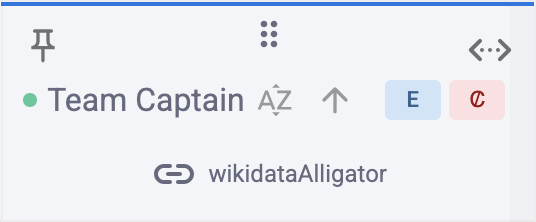
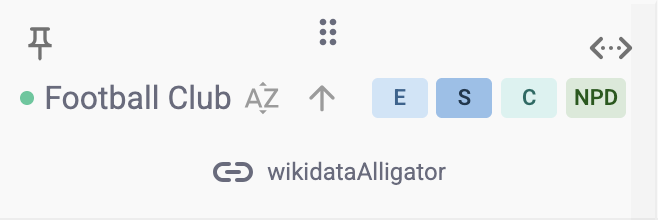
added access control, pipeline, graph visualization with compliance data sections

diff --git a/sidebars.js b/sidebars.js
@@ -25,6 +25,7 @@ const sidebars = {
         "user-manual/resources",
         "user-manual/running",
         "user-manual/starting-project",
+        "user-manual/access-control",
         {
           type: "category",
           label: "Exploring the Interface",
@@ -46,6 +47,7 @@ const sidebars = {
                 "user-manual/exploring-interface/table-view/introduction",
                 "user-manual/exploring-interface/table-view/search-navigation",
                 "user-manual/exploring-interface/table-view/filtering-visibility",
+                "user-manual/exploring-interface/table-view/pipeline",
                 "user-manual/exploring-interface/table-view/column-header",
               ],
             },

diff --git a/docs/user-manual/exploring-interface/graph-view/graph-area.md b/docs/user-manual/exploring-interface/graph-view/graph-area.md
@@ -3,21 +3,42 @@ sidebar_position: 2
 ---
 
 # Graph Area
-At the top left of the Graph Area, a legend indicates the meaning of the node colors:
-<ul style={{ listStyle: 'none', paddingLeft: '10px' }}>
+## Legend
+The Graph Area supports two visualization modes, toggled via the buttons in the top right corner:
+- Standard View: The default mode, where node colors are determined by their basic semantic role.
+  <ul style={{ listStyle: 'none', paddingLeft: '10px', marginTop: '8px' }}>
+    <li style={{ marginBottom: '10px' }}>
+      <span style={{ backgroundColor: '#2ecc71', width: '10px', height: '10px', borderRadius: '50%', display: 'inline-block', marginRight: '10px', verticalAlign: 'middle' }}></span>
+      <b>Subject</b>: Main entities or key columns in the dataset.
+    </li>
+    <li style={{ marginBottom: '10px' }}>
+      <span style={{ backgroundColor: '#3498db', width: '10px', height: '10px', borderRadius: '50%', display: 'inline-block', marginRight: '10px', verticalAlign: 'middle' }}></span>
+      <b>Entity</b>: Related objects or semantic concepts connected to Subjects.
+    </li>
+    <li style={{ marginBottom: '10px' }}>
+      <span style={{ backgroundColor: '#e67e22', width: '10px', height: '10px', borderRadius: '50%', display: 'inline-block', marginRight: '10px', verticalAlign: 'middle' }}></span>
+      <b>Literal</b>: Concrete values from the table (like strings, numbers, or dates).
+    </li>
+  </ul>
+- Compliance View: Activated by clicking the `Show compliance` button. n this mode, node colors are determined by their data privacy classification.
+    <ul style={{ listStyle: 'none', paddingLeft: '10px', marginTop: '8px' }}>
+    <li style={{ marginBottom: '10px' }}>
+      <span style={{ backgroundColor: '#dc143c', width: '10px', height: '10px', borderRadius: '50%', display: 'inline-block', marginRight: '10px', verticalAlign: 'middle' }}></span>
+      <b>Personal Data</b>: Directly identifies an individual (e.g., name, email)..
+    </li>
+    <li style={{ marginBottom: '10px' }}>
+      <span style={{ backgroundColor: '#ffa500', width: '10px', height: '10px', borderRadius: '50%', display: 'inline-block', marginRight: '10px', verticalAlign: 'middle' }}></span>
+      <b>Quasi-Identifiers</b>: Could indirectly identify a person when combined with other data.
+    </li>
+    <li style={{ marginBottom: '10px' }}>
+      <span style={{ backgroundColor: '#228b22', width: '10px', height: '10px', borderRadius: '50%', display: 'inline-block', marginRight: '10px', verticalAlign: 'middle' }}></span>
+      <b>Non-Personal Data</b>: Organizational or contextual information.
+    </li>
   <li style={{ marginBottom: '10px' }}>
-    <span style={{ backgroundColor: '#2ecc71', width: '10px', height: '10px', borderRadius: '50%', display: 'inline-block', marginRight: '10px', verticalAlign: 'middle' }}></span>
-    <b>Subject</b>: Main entities or key columns in the dataset.
-  </li>
-  <li style={{ marginBottom: '10px' }}>
-    <span style={{ backgroundColor: '#3498db', width: '10px', height: '10px', borderRadius: '50%', display: 'inline-block', marginRight: '10px', verticalAlign: 'middle' }}></span>
-    <b>Entity</b>: Related objects or semantic concepts connected to Subjects.
-  </li>
-  <li style={{ marginBottom: '10px' }}>
-    <span style={{ backgroundColor: '#e67e22', width: '10px', height: '10px', borderRadius: '50%', display: 'inline-block', marginRight: '10px', verticalAlign: 'middle' }}></span>
-    <b>Literal</b>: Concrete values from the table (like strings, numbers, or dates).
-  </li>
-</ul>
+      <span style={{ backgroundColor: '#1e90ff', width: '10px', height: '10px', borderRadius: '50%', display: 'inline-block', marginRight: '10px', verticalAlign: 'middle' }}></span>
+      <b>Anonymous Data</b>: Fully anonymized data.
+    </li>
+  </ul>
 
 <div style={{textAlign: 'center'}}>
   <img 
@@ -63,3 +84,6 @@ This view allows you to:
 
 The Column Values table acts as a bridge between the graph representation and the concrete data stored in the dataset,
 supporting both semantic analysis and data quality inspection.
+
+This section can be collapsed or expanded using the `+` and `-` buttons in the top right of the panel. When collapsed,
+it allows for more space to view the graph.

diff --git a/docs/user-manual/exploring-interface/table-view/pipeline.md b/docs/user-manual/exploring-interface/table-view/pipeline.md
@@ -1,0 +1,49 @@
+---
+sidebar_position: 4
+---
+
+# Pipeline Control
+The Pipeline provides a comprehensive overview of the enrichment workflow
+applied to the table, tracking all the logs done by the user, such as get table, modifications, reconciliations,
+extensions, cell entity link propagation, and save table. It automatically reconstructs the entire operational history—or
+"timeline"—by ordering actions chronologically based on their timestamps.
+
+Simply open the Pipeline control panel, located in the top-right of the SubToolbar, to visualize the enrichment operations 
+in two distinct ways:
+- **Sequential List**: A chronological log of all performed actions.
+- **Tree View (DAG)**: A Directed Acyclic Graph (DAG) representation that maps the dependencies between operations.
+
+This visualization allows you to understand how different operations relate to one another—for example, how an extension
+might depend on a previous reconciliation.
+
+## Operational Control and Dependencies
+The system manages dependencies to maintain data consistency offering advanced management capabilities that go beyond
+simple undo/redo actions:
+- **Safe Deletion**: When no dependencies are violated.
+- **Cascade Delete**: When deleting an operation that others depend on, all the dependent operations as well will be removed as well.
+
+| Operation      | When can I delete an operation?                                                                                                             |
+|----------------|---------------------------------------------------------------------------------------------------------------------------------------------|
+| Reconciliation | Only if the result is not used by any Extension operation, or when Reconciliations done in sequence on the same column.                     |
+| Extension      | Only if no Modification or Reconciliation operation is done using the column created by the operation or as context of another Extension    |
+| Modification   | Only if the result or the newly created column is not used by any Reconciliation operation or used as support context from other operations |
+
+:::info NOTE
+Modification is considered a "destructive" operation because it directly edits cell values. Reversing them may require careful handling of the operation history: by ignoring 
+the changes or store previous value of the column in the log (heavier).
+:::
+
+| Dependencies (To/From) | Reconciliation | Extension | Modification | Annotation Propagation |
+|------------------------|----------------|-----------|--------------|------------------------|
+| Reconciliation         | ❌             | ✅¹       | ✅¹          | ❌                    |
+| Extension              | ✅             | ✅²       | ✅²          | ✅                    |
+| Modification           | ❌             | ✅¹       | ✅¹          | ❌                    |
+| Annotation Propagation | ✅             | ❌        | ❌           | ❌                    |
+
+_¹: Includes Normal and Context dependencies._
+_²: Includes Context dependencies._
+
+:::info NOTE
+While most enrichment operations are tracked, some actions—such as manual column deletion or automatic annotations—are
+not currently part of the Pipeline history.
+:::

diff --git a/docs/user-manual/access-control.md b/docs/user-manual/access-control.md
@@ -1,0 +1,25 @@
+---
+sidebar_position: 5
+---
+
+# Sharing and Access Control
+SemT-X supports collaborative work through a two-level permission system, allowing you to manage access at the Dataset, 
+and Table levels.
+
+Access settings can be configured independently for:
+- **Datasets**: Permissions applied to the entire dataset. 
+- **Tables**: Permissions applied to individual tables within a dataset.
+Permission intersections across these levels are possible; however, the system always enforces the most restrictive setting.
+
+## Roles and Collaboration
+As the Owner, you have full control over access management. You can add users by providing their username or email address
+and assigning them one of the following roles:
+- **Viewer**: Read-only access.
+- **Editor**: Read-write access.
+
+## Setting Visibility
+To manage permissions, simply click on the `Access` button for the target Dataset or Table. You can choose from the
+following visibility options:
+- **Private**: Accessible only by the owner and by explicitly listed users (Viewers or Editors).
+- **Public**: Accessible by any authenticated user (for tables, this remains subject to dataset-level access).
+- **Inherit** from dataset (Table level only): The default setting, where the table adopts the permissions of its parent dataset.

diff --git a/docs/user-manual/enrichment-operations/compliance.md b/docs/user-manual/enrichment-operations/compliance.md
@@ -1,5 +1,5 @@
 ---
-sidebar_position: 3
+sidebar_position: 6
 ---
 
 # Compliance
@@ -8,8 +8,19 @@ Click on the `Compliance` button in the Toolbar and simply select one of the ava
 the system supports GDPR assessment, allowing you to determine if your data processing aligns with European privacy standards.
 _(Learn more about [Compliance Services](../discover-services/compliance))_
 
-:::info
+:::info NOTE
 This is a long-running asynchronous process, allowing you to continue working on other tables while it runs.
 :::
 
-Once the task is completed, you will receive a notification via a pop-up in the bottom-left corner of the screen.
+## Feedbacks
+Once the task is completed, you will receive a notification via a pop-up in the bottom-left corner of the screen. The
+system provides a Compliance Report and immediate visual feedbacks to help you identify sensitive columns:
+- **Column Badges**: In the Table View, the column headers are automatically updated with specific badges indicating
+  the compliance status and the data classification (e.g., Personal Data, Quasi-Identifier). Hovering over these badges 
+  displays detailed insights, including the reasoning with the confidence score of the classification.
+- **Detailed Insights**: By opening the Column Metadata Dialog, you can view the results obtained from the compliance check
+  for that column.
+
+The compliance assessment is also integrated into the Graph Visualization to provide a semantic overview of your privacy
+status with color-coded nodes for classification and a compliance summary including status, confidence, and reasoning.
+_(Learn more about [Graph Visualization](../exploring-interface/graph-view/sidebar))_

diff --git a/docs/user-manual/exploring-interface/graph-view/sidebar.md b/docs/user-manual/exploring-interface/graph-view/sidebar.md
@@ -25,6 +25,12 @@ This fixed section displays general information about the entire graph:
   </div>
 </div>
 
+## Compliance Summary
+When compliance is enabled, this section provides an overview of the dataset's privacy status:
+- **Status**: Indicates whether the data is "GDPR compliant" or not, only if a compliance check has been performed.
+- **Confidence score**: A percentage reflecting the reliability of the classification.
+- **Reasoning**: A detailed explanation of the findings, including which data types (e.g., personal, quasi-identifiers) were detected and why.
+
 ## Selected Node/Link Details
 The second part of the Sidebar is dynamic and updates according to the element selected in the graph. After selecting an
 element, this section can be collapsed using the `-` button, allowing you to hide the details and focus on the graph
@@ -32,11 +38,13 @@ general information when needed.
 
 When an element is selected, the Sidebar shows contextual information:
 - **Selected Node**: Displays semantic details about the node, including:
+  - **Compliance info**: Summarizes the data classification and its compliance status along with the confidence score.
+    Only visible when `Show compliance` button is active. If no check has been performed, the status is marked as _"Not performed"_.
   - **Kind and role**: Describes its function in the graph.
   - **Types**: Represents its semantic classification.
   - **Incoming and outgoing connections**: Describes how the node is related to others in the graph.
 - **Selected Link**: Displays information about the relationship between two nodes, including:
-  - **Metadata Property**: Defines the relationship.
+  - **Metadata**: Defines the relationship. When multiple properties link the two elements, a list of all the properties IDs is provided.
   - **Source and Target types**: Lists the associated types for each endpoint. <br />
     `Show types` expands all associated types to inspect their semantic meaning.
 

diff --git a/docs/user-manual/starting-project.md b/docs/user-manual/starting-project.md
@@ -48,3 +48,11 @@ distinguish between result types, each item is marked with a specific label on t
 ## Entering the Workspace
 After the upload is processed, your table will appear in the list within its dataset. Clicking on the table name
 will open the Table Viewer, where you can begin the semantic enrichment process.
+
+## Reviewing Tables
+Once your data is uploaded, you can quickly review the status of your tables directly from the dashboard using the
+quick action buttons located next to each table name (visible on hover):
+- **Compliance Report**: Opens a window to view the latest compliance check (e.g., GDPR). _(Learn more about [Compliance Check](../../enrichment-operations/compliance.md))_
+- **Schema Graph**: Displays a visual representation of the table schema. _(Learn more about [Graph View](../graph-view/introduction))_
+- **Pipeline**: Opens the operation control panel. You can inspect these operations either in a sequential list or in a tree
+  view, which illustrates the logical dependencies and helps you trace the enrichment workflow.

diff --git a/docs/user-manual/exploring-interface/toolbar/export.md b/docs/user-manual/exploring-interface/toolbar/export.md
@@ -5,18 +5,19 @@ sidebar_position: 5
 # Export
 SemT-UI allows you to export your data or workflows in various formats tailored to your needs.
 The available export options include:
-- **Schema**: Saves the data in standard formats such as _JSON_, or generates a _HTML or Markdown Report_.
+- **Schema**: Saves the header data in standard formats such as _JSON_, or generates a _HTML or Markdown Report_.
 - **Table**: Saves the data in standard formats such as _CSV_, _JSON (W3C Compliant)_ and _RDF_.
    - For _CSV_, you can customize the delimiter, quote character, decimal separator, and choose whether to include the header. 
    - For _RDF_, you can specify the serialization format, @base URI, filtering threshold, and match value.
 - **Pipeline**: Generates a _Python script_ or a _Jupyter Notebook_ that represents your current table workflow.
 
-:::info
+:::info NOTE
 Pipelines require all changes to be saved to the server before they can be exported.
 :::
 
 Once you have configured and confirmed the parameters, the file will be automatically downloaded.
 
+## Enrichment Pipeline Generation
 :::tip
 Watch this short video to see the Enrichment Pipeline Generation in action:
 

diff --git a/docs/user-manual/enrichment-operations/schema-annotation/manual-schema-annotation.md b/docs/user-manual/enrichment-operations/schema-annotation/manual-schema-annotation.md
@@ -27,7 +27,7 @@ When working with literal datatypes, SemT-X provides tailored tools to handle fo
 - **XML Schema (for STRING/DATE):** Aligns data validation with standard XML Schema structures. For more details, click 
   <a href='https://www.w3.org/TR/xmlschema-2/' target='_blank'>here</a>.
 
-:::note
+:::info NOTE
   Column types are automatically added during a reconciliation or extension step. In this case, based on the property 
   extracted, some information are automatically defined, such as column types and cell metadata are automatically added.
 :::
@@ -47,7 +47,7 @@ Manually adding properties links columns together by defining the following **se
   the property will be automatically created and added to that corresponding _Subject_ column.
 :::
 
-:::note
+:::info NOTE
   Column properties are automatically added when providing support columns as context during the reconciliation step, and
   also, during the extension step, when extracting additional information.
 :::

diff --git a/docs/user-manual/known-bugs.md b/docs/user-manual/known-bugs.md
@@ -1,5 +1,5 @@
 ---
-sidebar_position: 5
+sidebar_position: 6
 ---
 
 # Known bugs
@@ -14,4 +14,4 @@ sidebar_position: 5
 # Improvements
 - Disable the expand header function for the unreconciled cells.
 - In the Refine Matching dialog the candidate reconcile options are showed sorted by score in ascending order instead of descending order.
-- In the Refine Maching dialog add the possibility to search the different types with a search field. 
+- In the Refine Matching dialog add the possibility to search the different types with a search field. 

diff --git a/docs/user-manual/exploring-interface/table-view/column-header.md b/docs/user-manual/exploring-interface/table-view/column-header.md
@@ -1,5 +1,5 @@
 ---
-sidebar_position: 4
+sidebar_position: 5
 ---
 
 # Column Header
@@ -26,3 +26,4 @@ Column headers also show the following data:
 - **Reconciliation service name**: The source used for entity matching.
 - **Reconciliation status**: Indicates whether they were fully, partially, or not reconciled.
 - **Compliance check status**: Indicates whether the column is compliant with privacy standards or legal regulations.
+- **Compliance classification**: Indicates the nature of the data from a privacy and compliance perspective.

diff --git a/docs/user-manual/enrichment-operations/extension.md b/docs/user-manual/enrichment-operations/extension.md
@@ -1,5 +1,5 @@
 ---
-sidebar_position: 5
+sidebar_position: 4
 ---
 
 # Extension